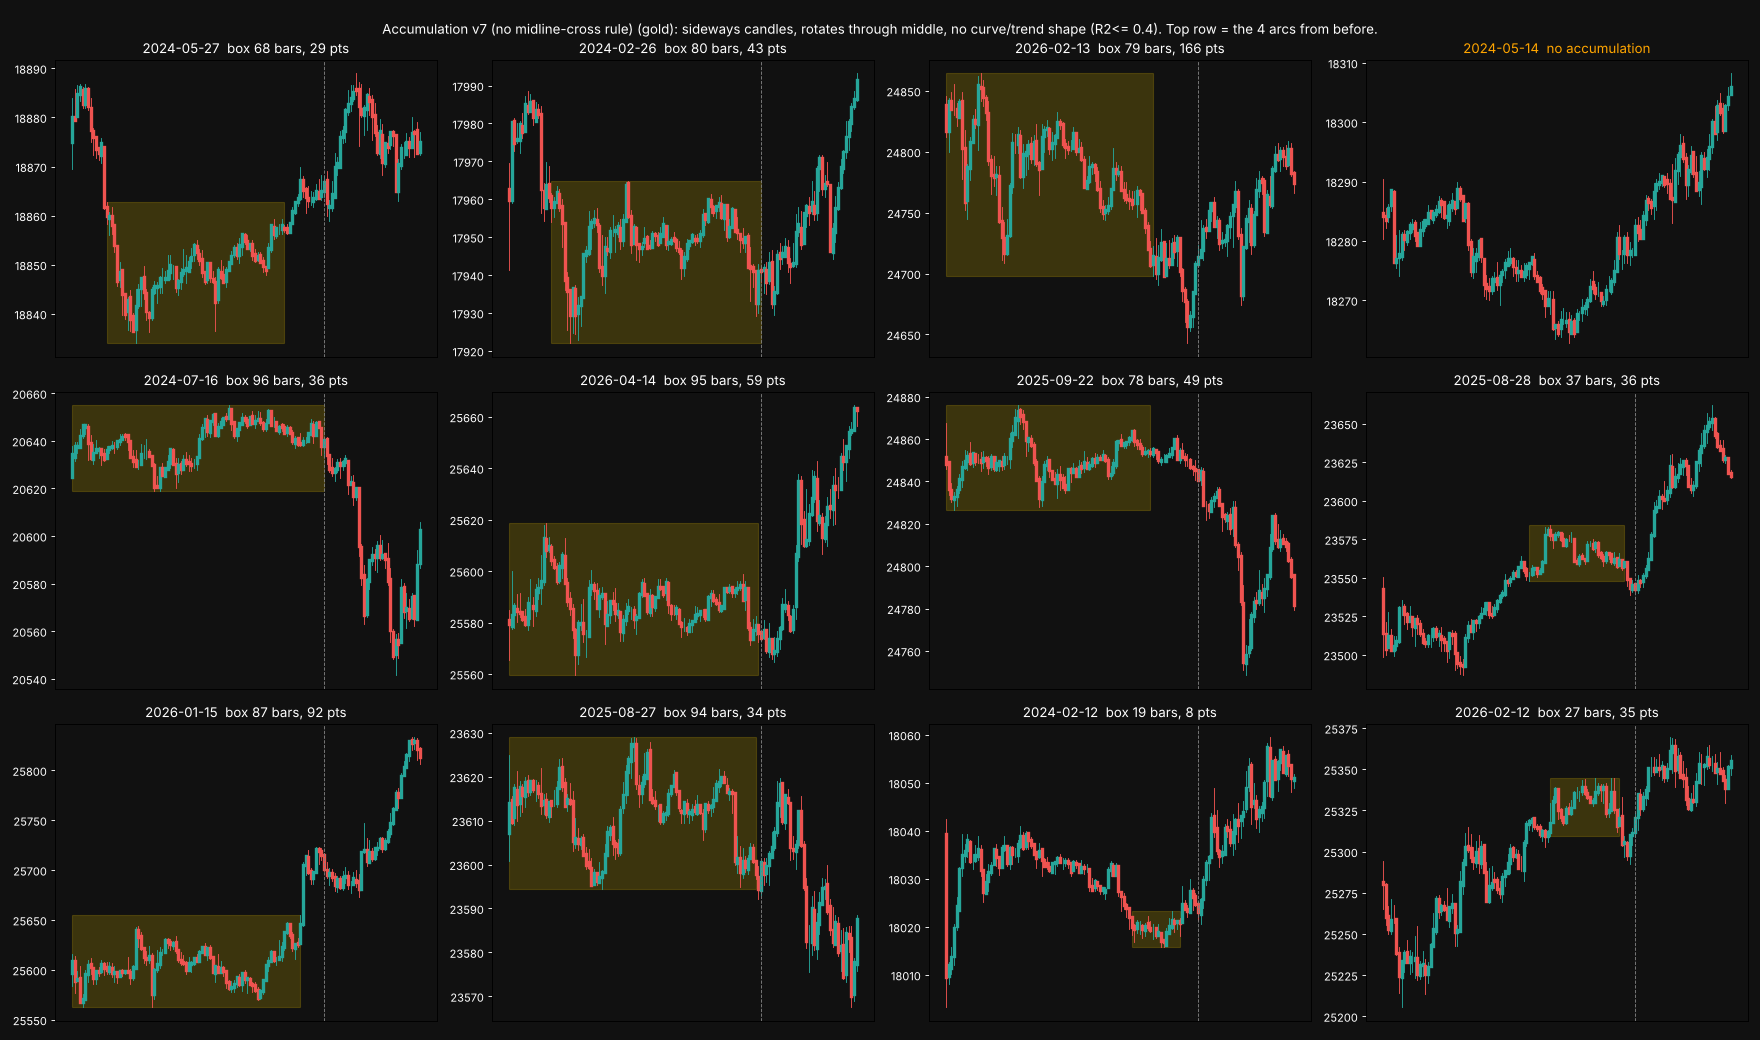
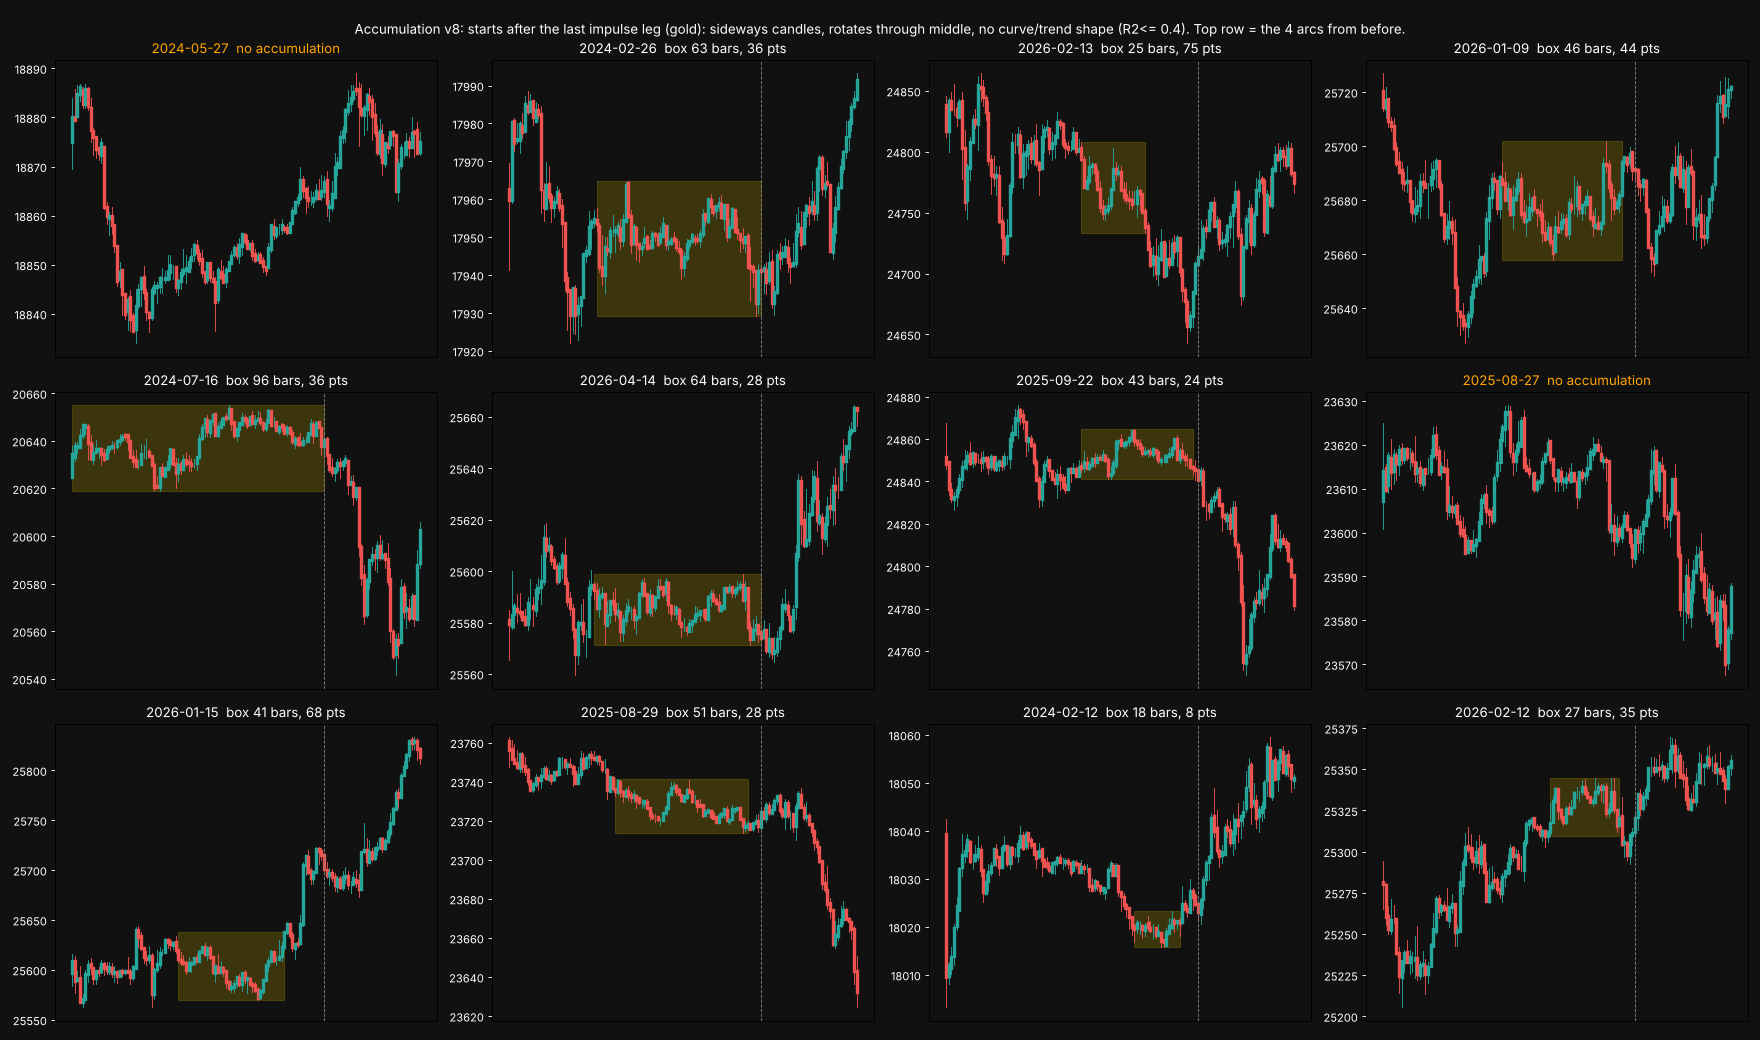
Accumulation starts after the last impulse leg (stops the box at a strong one-way move)
Claude-Session: https://claude.ai/code/session_01LHFLENCAzQQgAE9U3octwH

diff --git a/research/accumulation_detector.py b/research/accumulation_detector.py
@@ -5,6 +5,7 @@ matplotlib.use('Agg'); import matplotlib.pyplot as plt
 df=D.load('5m'); S=D.enrich(df)
 o,h,l,c,hm,tday=S['o'],S['h'],S['l'],S['c'],S['hm'],S['tday']
 K,ERMAX,MINB,SLACK,ZONE,TOUCH,XPH,R2MAX=8.0,0.30,12,24,0.20,2,1.0,float(sys.argv[1])
+W,IMPK,IMPER=6,4.0,0.5
 def r2q(y):
     x=np.arange(len(y)); p=np.polyfit(x,y,2); res=y-np.polyval(p,x); tot=((y-y.mean())**2).sum()
     return 1-(res**2).sum()/tot if tot>0 else 0
@@ -20,6 +21,10 @@ def detect(ix):
     for e in range(n-1, max(1,n-1-SLACK)-1, -1):
         hh,ll=H[e],L[e]; rngs=[H[e]-L[e]]
         for i in range(e-1,-1,-1):
+            # stop at the end of the last impulse leg: the W bars ending at i moved hard in one direction
+            if len(rngs)>=6 and i-W>=0:
+                med0=np.median(rngs); seg=C[i-W:i+1]; pth=np.abs(np.diff(seg)).sum()
+                if med0>0 and abs(seg[-1]-seg[0])>=IMPK*med0 and pth>0 and abs(seg[-1]-seg[0])/pth>=IMPER: break
             nh,nl=max(hh,H[i]),min(ll,L[i]); rngs.append(H[i]-L[i]); med=np.median(rngs)
             if len(rngs)>=6 and med>0 and (nh-nl)/med>K: break
             hh,ll=nh,nl
@@ -45,7 +50,7 @@ for d,g in days:
     if status=='ok': samples[str(d)]=(d,w,fit,ix)
 s=pd.Series(res); print("R2MAX",R2MAX,"nights:",len(s), s.value_counts().to_dict())
 print("ok: median length",np.median([f[1]-f[0]+1 for _,_,f,_ in samples.values()]),"bars; median height",np.median([f[2]-f[3] for _,_,f,_ in samples.values()]),"pts")
-keys=['2024-05-27','2024-02-26','2026-02-13','2024-05-14','2024-07-16','2026-04-14','2025-09-22','2025-08-28']
+keys=['2024-05-27','2024-02-26','2026-02-13','2026-01-09','2024-07-16','2026-04-14','2025-09-22','2025-08-27']
 rng=np.random.default_rng(int(R2MAX*100)); keys += list(rng.choice([k for k in samples if k not in keys],4,replace=False))
 fig,axs=plt.subplots(3,4,figsize=(22,13))
 for ax,k in zip(axs.flat,keys):
@@ -62,5 +67,5 @@ for ax,k in zip(axs.flat,keys):
     else:
         ax.set_title(f"{k}  no accumulation",color='orange')
 fig.patch.set_facecolor('#111')
-fig.suptitle(f"Accumulation v7 (no midline-cross rule) (gold): sideways candles, rotates through middle, no curve/trend shape (R2<= {R2MAX}). Top row = the 4 arcs from before.", color='w')
-plt.tight_layout(); plt.savefig(f'accumulation_v7_{R2MAX}.png',dpi=80)
+fig.suptitle(f"Accumulation v8: starts after the last impulse leg (gold): sideways candles, rotates through middle, no curve/trend shape (R2<= {R2MAX}). Top row = the 4 arcs from before.", color='w')
+plt.tight_layout(); plt.savefig(f'accumulation_v8_{R2MAX}.png',dpi=80)

diff --git a/README.md b/README.md
@@ -8,7 +8,7 @@ A TradingView Pine v6 strategy that combines a built-in volume profile with ICT'
 
 | Step | What the script looks for |
 |---|---|
-| **A: Accumulation** | Inside a search window (default: Asia, 6pm to 2am ET), it finds the latest tight range. It walks back from the end of the window while the candles stay sideways: the range is no taller than 8 median candles, the efficiency (net move ÷ distance travelled) stays at or below 0.30, and a smooth curve can't explain the movement (quadratic-fit R² ≤ 0.40), which rules out grinds, V's and rounded arcs. The range has to be at least 12 bars long, and each edge has to be tested at least twice. If any rule fails, the script draws "no accumulation" and doesn't look for AMD that day. It profiles the range it found, works out POC, VAH, and VAL, and draws the profile with buy volume and sell volume in separate colors. |
+| **A: Accumulation** | Inside a search window (default: Asia, 6pm to 2am ET), it finds the latest tight range. It walks back from the end of the window, stopping where the last strong move (impulse leg) ended, while the candles stay sideways: the range is no taller than 8 median candles, the efficiency (net move ÷ distance travelled) stays at or below 0.30, and a smooth curve can't explain the movement (quadratic-fit R² ≤ 0.40), which rules out grinds, V's and rounded arcs. The range has to be at least 12 bars long, and each edge has to be tested at least twice. If any rule fails, the script draws "no accumulation" and doesn't look for AMD that day. It profiles the range it found, works out POC, VAH, and VAL, and draws the profile with buy volume and sell volume in separate colors. |
 | **M: Manipulation** | After that session ends, price sweeps beyond the range by at least 2 ticks and no deeper than 75% of the range height. It then closes back inside the range within 6 bars. |
 | **D: Distribution** | Price closes beyond the POC in the direction of the reclaim. |
 | **✓ POC: retest confirmed** | Price pulls back to within 8 ticks of the POC and closes back on the right side. The script enters on that close. |
